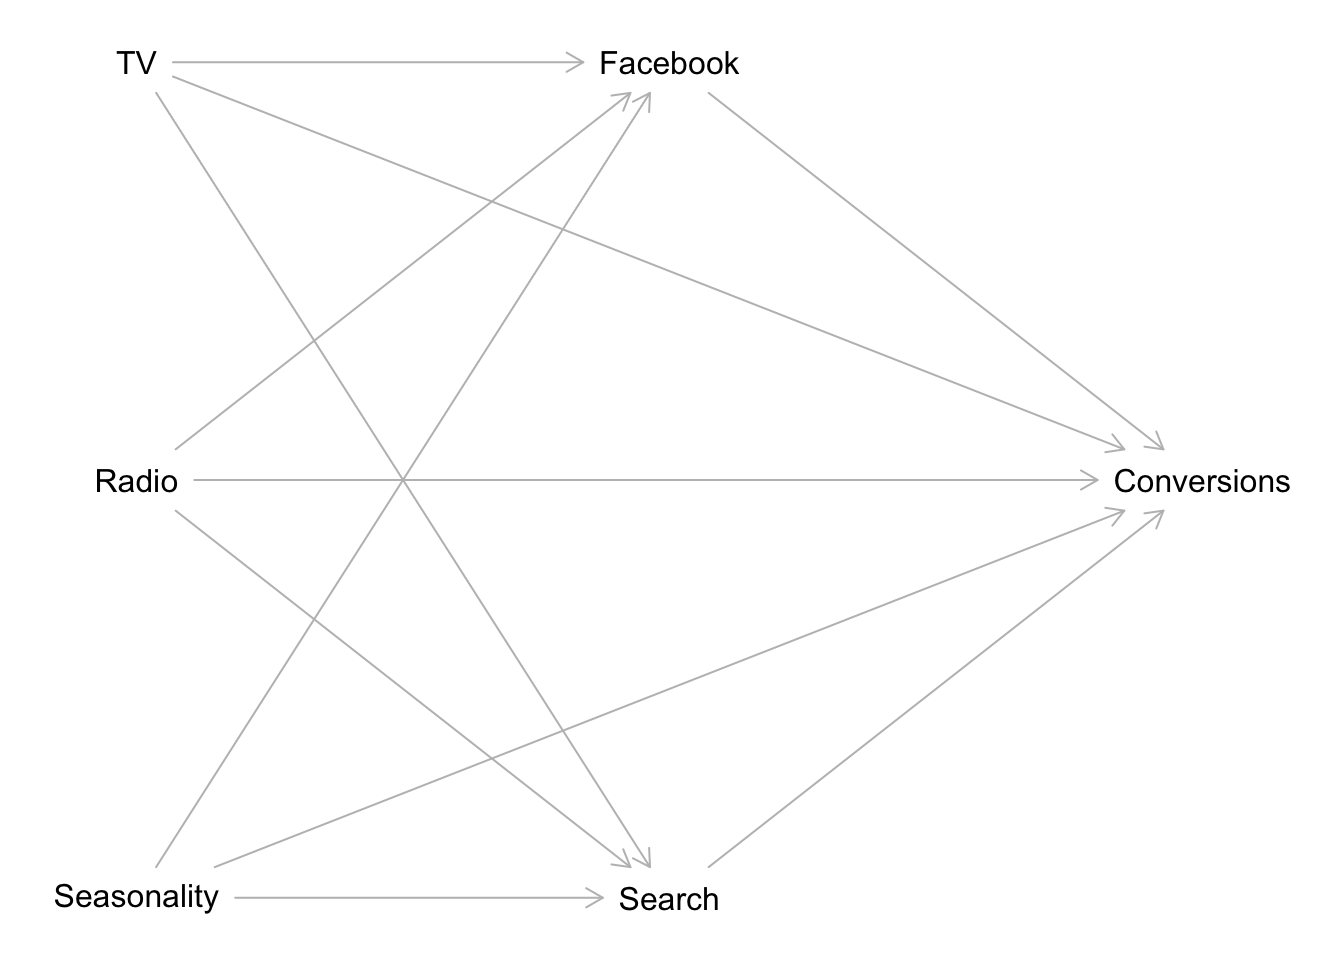
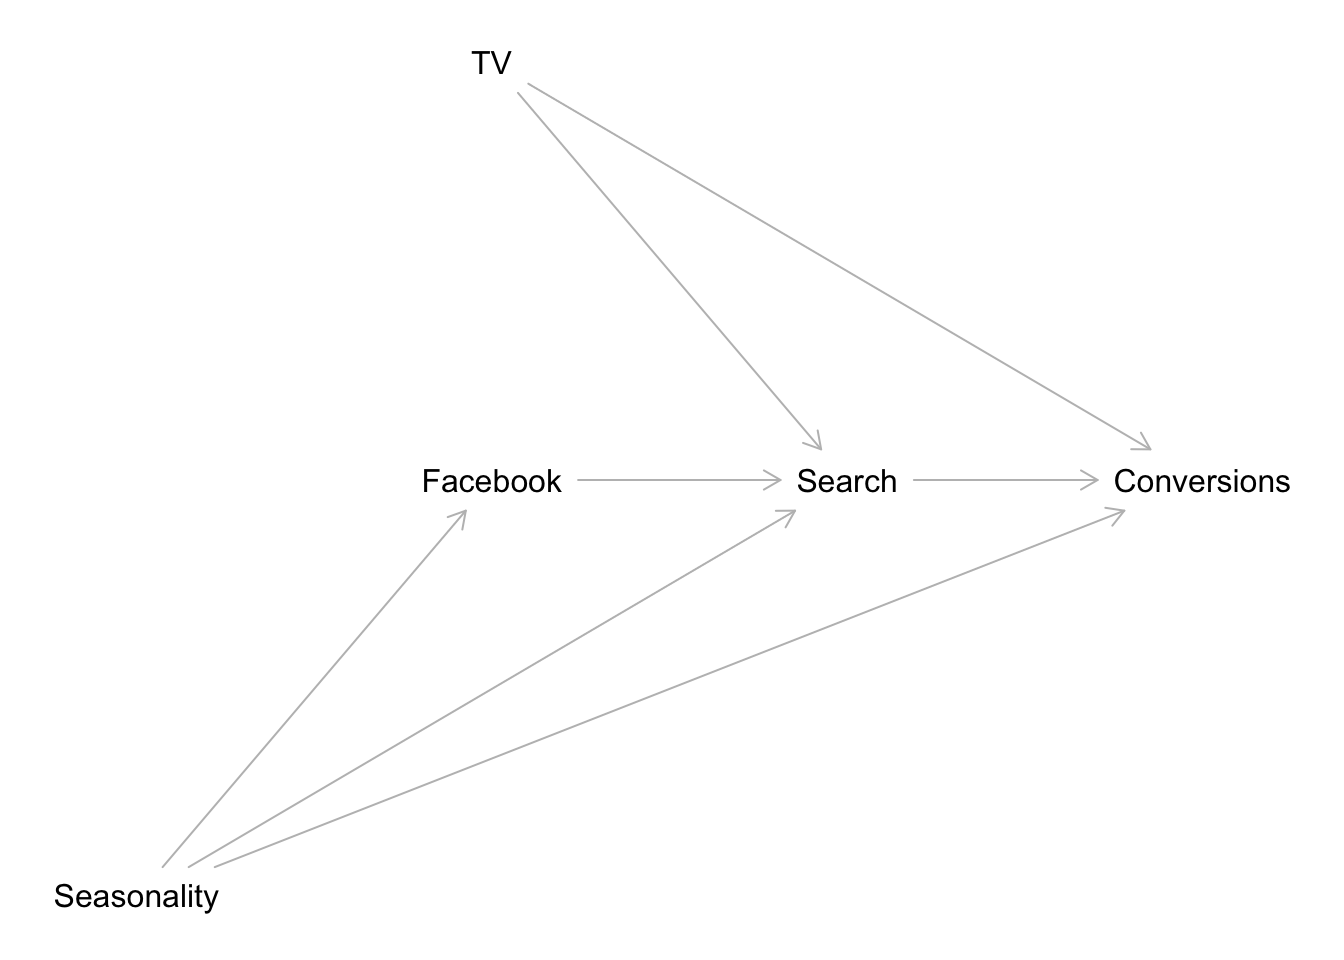
pymc 5.1 update and improved dag example

diff --git a/pymc_mmm/index.html b/pymc_mmm/index.html
@@ -90,6 +90,7 @@
 
 
 <p>In this notebook we present a concrete example of estimating the media effects via bayesian methods, following the strategy outlined in Google’s paper <a href="https://research.google/pubs/pub46001/">Jin, Yuxue, et al. “Bayesian methods for media mix modeling with carryover and shape effects.” (2017)</a>. This example can be considered the continuation of the post <a href="https://juanitorduz.github.io/orbit_mmm/">Media Effect Estimation with Orbit’s KTR Model</a>. However, it is not strictly necessary to read before as we make this notebook self-contained. In addition, we provide some remarks and references regarding MMM projects in practice.</p>
+<p><strong>Remark:</strong> If you are interested in this topic (and other applications of bayesian methods in marketing!) please take a look into the <a href="https://github.com/pymc-labs/pymc-marketing"><code>pymc-marketing</code></a> project. I am working together with <a href="https://www.pymc-labs.io/">PyMC Labs</a> and other contributors to open source some interesting models (including MMMs)!</p>
 <div id="data-generation-process" class="section level2">
 <h2>Data Generation Process</h2>
 <p>In <a href="https://juanitorduz.github.io/orbit_mmm/">Part I</a> of the post <a href="https://juanitorduz.github.io/orbit_mmm/">Media Effect Estimation with Orbit’s KTR Model</a>, we generated a synthetic dataset where we modeled a target variable <code>y</code> (sales) as a function of a trend, a seasonal component and an external regressor <code>z</code> (media spend). The effect of <code>z</code> on <code>y</code> was specified by the composition two transformations: a carryover effect (adstock) and a shape (saturation) effect.These two transformations have proven successful in practical Media Mix Modeling.</p>
@@ -173,31 +174,25 @@ y(t) = \beta_{0} + \beta_{\text{trend}}\:\text{trend} + \beta_{\text{seasonality
 
 dag &lt;- dagitty( x = &quot;dag {
   TV -&gt; Search -&gt; Conversions
-  TV -&gt; Facebook -&gt; Conversions
   TV -&gt; Conversions
-  Radio -&gt; Search -&gt; Conversions
-  Radio -&gt; Facebook -&gt; Conversions
-  Radio -&gt; Conversions
   Seasonality -&gt; Conversions
   Seasonality -&gt; Search
-  Seasonality -&gt; Facebook
+  Seasonality -&gt; Facebook -&gt; Search
 }&quot; )
 
 coordinates( x = dag ) &lt;- list(
   x = c(
-    &quot;Seasonality&quot; = 0,
+    &quot;Seasonality&quot; = -1,
     &quot;TV&quot; = 0,
-    &quot;Radio&quot; = 0,
     &quot;Search&quot; = 1,
-    &quot;Facebook&quot; = 1,
+    &quot;Facebook&quot; = 0,
     &quot;Conversions&quot; = 2
   ),
   y = c(
     &quot;Seasonality&quot; = 1,
     &quot;TV&quot; = -1,
-    &quot;Radio&quot; = 0,
-    &quot;Search&quot; = 1,
-    &quot;Facebook&quot; = -1,
+    &quot;Search&quot; = 0,
+    &quot;Facebook&quot; = 0,
     &quot;Conversions&quot; = 0
   )
 )
@@ -206,25 +201,25 @@ plot( dag )</code></pre>
 <p><img src="../post/pymc_mmm_files/figure-html/unnamed-chunk-1-1.png" width="672" style="display: block; margin: auto;" /></p>
 <p>We would like to estimate the effect of <code>TV</code> on <code>Conversions</code>. To begin, we can get the <em>list of conditional independence statements that must hold in every probability distribution compatible with the given model</em>.</p>
 <pre class="r"><code>impliedConditionalIndependencies( x = dag )</code></pre>
-<pre><code>## Fcbk _||_ Srch | Radi, Ssnl, TV
-## Radi _||_ Ssnl
-## Radi _||_ TV
+<pre><code>## Cnvr _||_ Fcbk | Srch, Ssnl, TV
+## Fcbk _||_ TV
 ## Ssnl _||_ TV</code></pre>
 <p>We can use the data to test these implications. Next, we can get the <em>sets of covariates that (asymptotically) allow unbiased estimation of causal effects from observational data, assuming that the input causal graph is correct</em> (by looking into the back-door criterion). For example to estimate the direct effect of <code>TV</code> on <code>Conversions</code> we run:</p>
-<pre class="r"><code>adjustmentSets( x = dag , exposure = &quot;TV&quot;, outcome = &quot;Conversions&quot; )</code></pre>
-<pre><code>##  {}</code></pre>
+<pre class="r"><code>adjustmentSets( x = dag , exposure = &quot;TV&quot;, outcome = &quot;Conversions&quot;, type = &quot;canonical&quot;)</code></pre>
+<pre><code>## { Facebook, Seasonality }</code></pre>
 <p>This shows that the regression model structure should be</p>
 <center>
-<code>Conversions ~ Intercept + TV</code>.
+<code>Conversions ~ Intercept + TV + Facebook + Seasonality</code>.
 </center>
 <p>On the other hand, if we want the effect of <code>Facebook</code> to <code>Conversions</code> we run:</p>
-<pre class="r"><code>adjustmentSets( x = dag , exposure = &quot;Facebook&quot;, outcome = &quot;Conversions&quot; )</code></pre>
-<pre><code>## { Radio, Seasonality, TV }</code></pre>
+<pre class="r"><code>adjustmentSets( x = dag , exposure = &quot;Facebook&quot;, outcome = &quot;Conversions&quot;, type = &quot;canonical&quot;)</code></pre>
+<pre><code>## { Seasonality, TV }</code></pre>
 <p>Hence, the correct model (given the graph causal model!) is</p>
 <center>
-<code>Conversions ~ Intercept + Facebook + TV + Radio + Seasonality</code>
+<code>Conversions ~ Intercept + Facebook + TV + Seasonality</code>
 </center>
-<p>Again, no need to be clever, just specify the causal model. One could argue that for digital channels (like <code>Facebook</code>) the impressions data is already driven by seasonality, so adding additional Fourier modes can be counterproductive. However, given a causal graph as above this is actually not the case. One can extend this type of analysis for additional external factors to be consider in the media mix model.</p>
+<p>That is, we can use the model <code>Conversions ~ Intercept + Facebook + TV + Seasonality</code> to estimate the effects of both <code>TV</code> and <code>Facebook</code> in conversions. Note that we should <strong>not</strong> include <code>Search</code> in the regression model!</p>
+<p>Again, no need to be clever, just specify the causal model. One could argue that for digital channels (like <code>Facebook</code>) the media data is already driven by seasonality, so adding additional Fourier modes can be counterproductive. However, given a causal graph as above this is actually not the case. One can extend this type of analysis for additional external factors to be consider in the media mix model.</p>
 <p><strong>Remark:</strong> There are of course other strategies to model seasonality. Certain modelers suggest to add time-variant coefficients to encode seasonality via Gaussian processes (see for example the post <a href="https://getrecast.com/seasonality/">You’re probably modeling seasonality the wrong way</a>).</p>
 <p><strong>Remark</strong>: To estimate the cost of incremental sales by considering the funnels effects (causal graph) please refer to the excellent blog post <a href="https://engineering.hellofresh.com/bayesian-media-mix-modeling-using-pymc3-for-fun-and-profit-2bd4667504e6">Bayesian Media Mix Modeling using PyMC3, for Fun and Profit</a></p>
 <p>For more examples and details about <em>good and bad controls</em> you can look into the article <a href="https://ftp.cs.ucla.edu/pub/stat_ser/r493.pdf">A Crash Course in Good and Bad Controls</a>.</p>
@@ -503,8 +498,9 @@ ax.set(title=&quot;Base Model - Prior Predictive Samples&quot;);</code></pre>
 <li>Fit Model</li>
 </ul>
 <pre class="python"><code>with base_model:
-    base_model_trace = pm.sampling_jax.sample_numpyro_nuts(
-        draws=6000,
+    base_model_trace = pm.sample(
+        nuts_sampler=&quot;numpyro&quot;,
+        draws=6_000,
         chains=4,
         idata_kwargs={&quot;log_likelihood&quot;: True},
     )
@@ -1166,8 +1162,9 @@ ax.set(title=&quot;Adstock Saturation Model - Prior Predictive&quot;);</code></p
 <li>Fit Model</li>
 </ul>
 <pre class="python"><code>with adstock_saturation_model:
-    adstock_saturation_model_trace = pm.sampling_jax.sample_numpyro_nuts(
-        draws=6000,
+    adstock_saturation_model_trace = pm.sample(
+        nuts_sampler=&quot;numpyro&quot;,
+        draws=6_000,
         chains=4,
         idata_kwargs={&quot;log_likelihood&quot;: True},
     )
@@ -1819,7 +1816,7 @@ ax.set(title=f&quot;Adstock Saturation Model MROAS ({eta:.0%} increase)&quot;);<
     slopes = pm.GaussianRandomWalk(
         name=&quot;slopes&quot;,
         sigma=sigma_slope,
-        init_dist=pymc.distributions.continuous.Normal.dist(
+        init_dist=pm.distributions.continuous.Normal.dist(
             name=&quot;init_dist&quot;, mu=0, sigma=2
         ),
         dims=&quot;date&quot;,
@@ -1878,6 +1875,7 @@ ax.set(title=&quot;Adstock-Saturation-Diminishing-Returns Model - Prior Predicti
 </ul>
 <pre class="python"><code>with asdr_model:
     asdr_model_trace = pm.sample(
+        nuts_sampler=&quot;numpyro&quot;,
         draws=6_000,
         chains=4,
         idata_kwargs={&quot;log_likelihood&quot;: True},
@@ -1885,7 +1883,6 @@ ax.set(title=&quot;Adstock-Saturation-Diminishing-Returns Model - Prior Predicti
     asdr_model_posterior_predictive = pm.sample_posterior_predictive(
         trace=asdr_model_trace
     )</code></pre>
-<p><strong>Remark:</strong> In <code>pymc &gt;= 5.0</code> it seems we can not use the JAX samplers with a <a href="https://docs.pymc.io/en/stable/api/distributions/generated/pymc.GaussianRandomWalk.html"><code>pm.GaussianRandomWalk</code></a>, see <a href="https://github.com/pymc-devs/pymc/issues/6467">this issue</a> for more details.</p>
 <ul>
 <li>Model Diagnostics</li>
 </ul>
